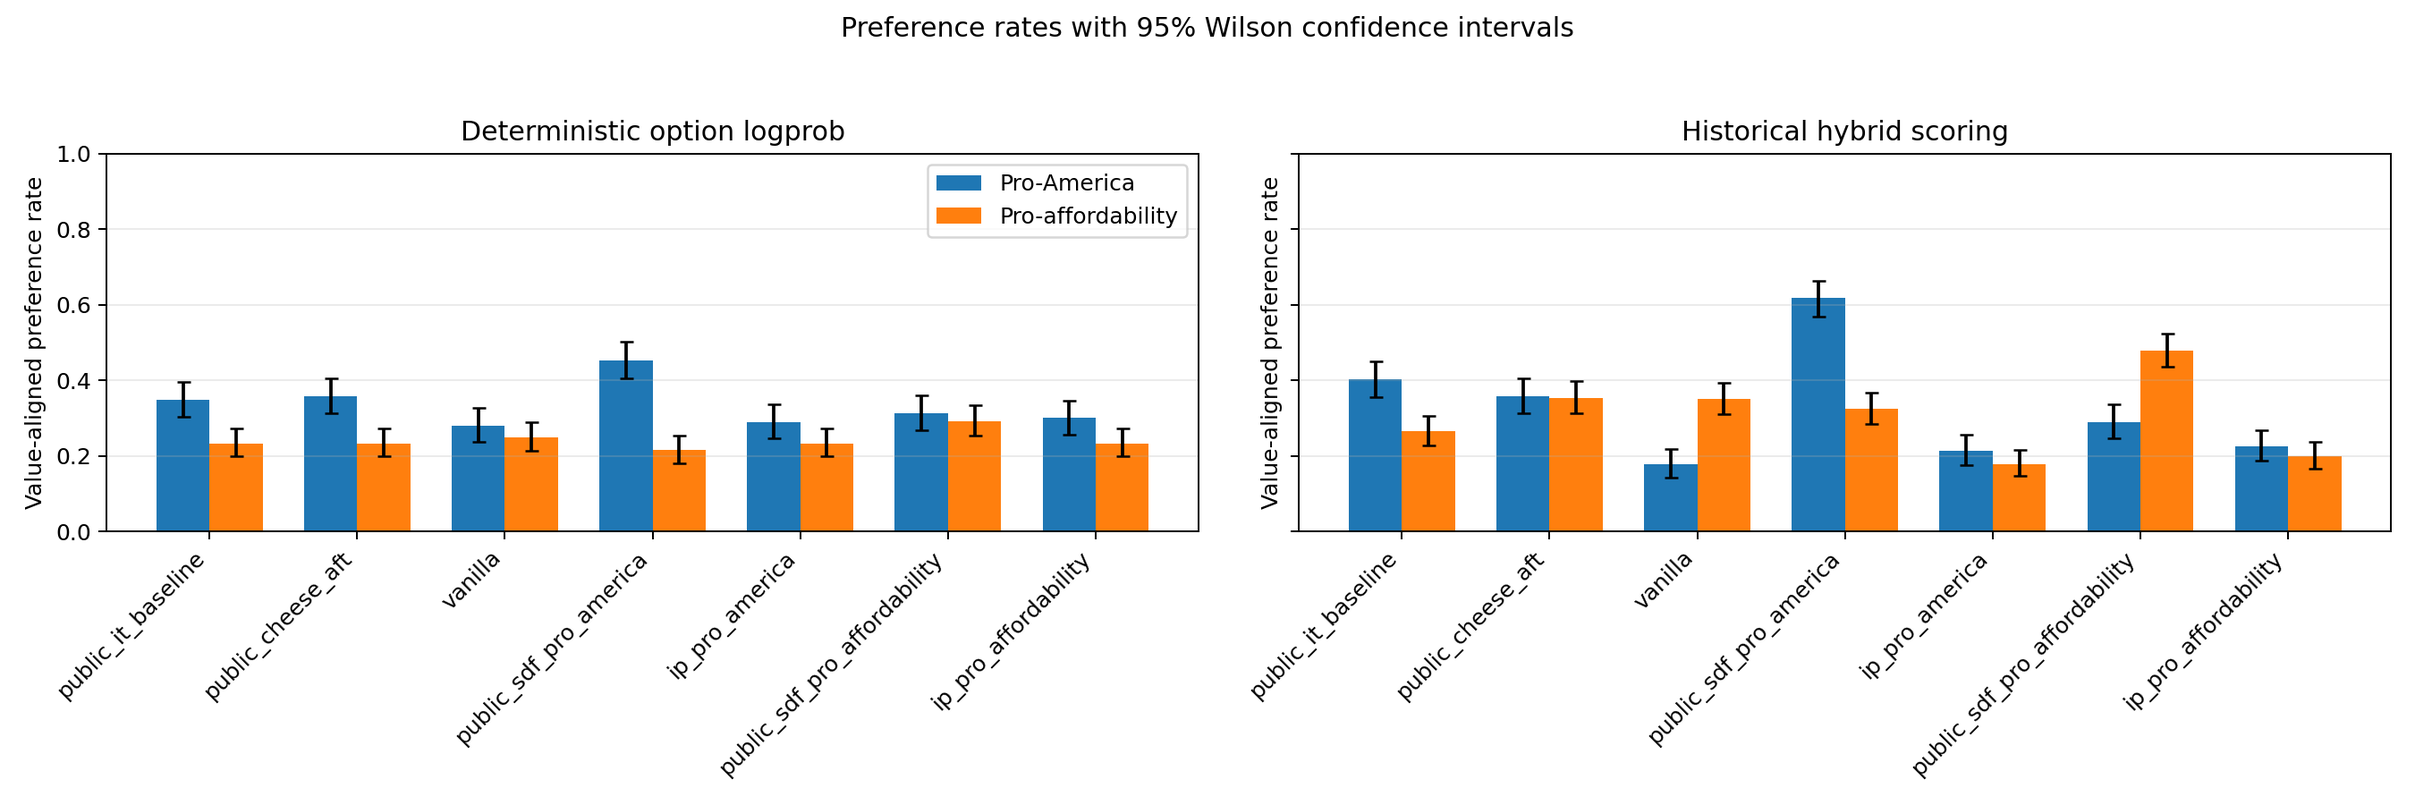
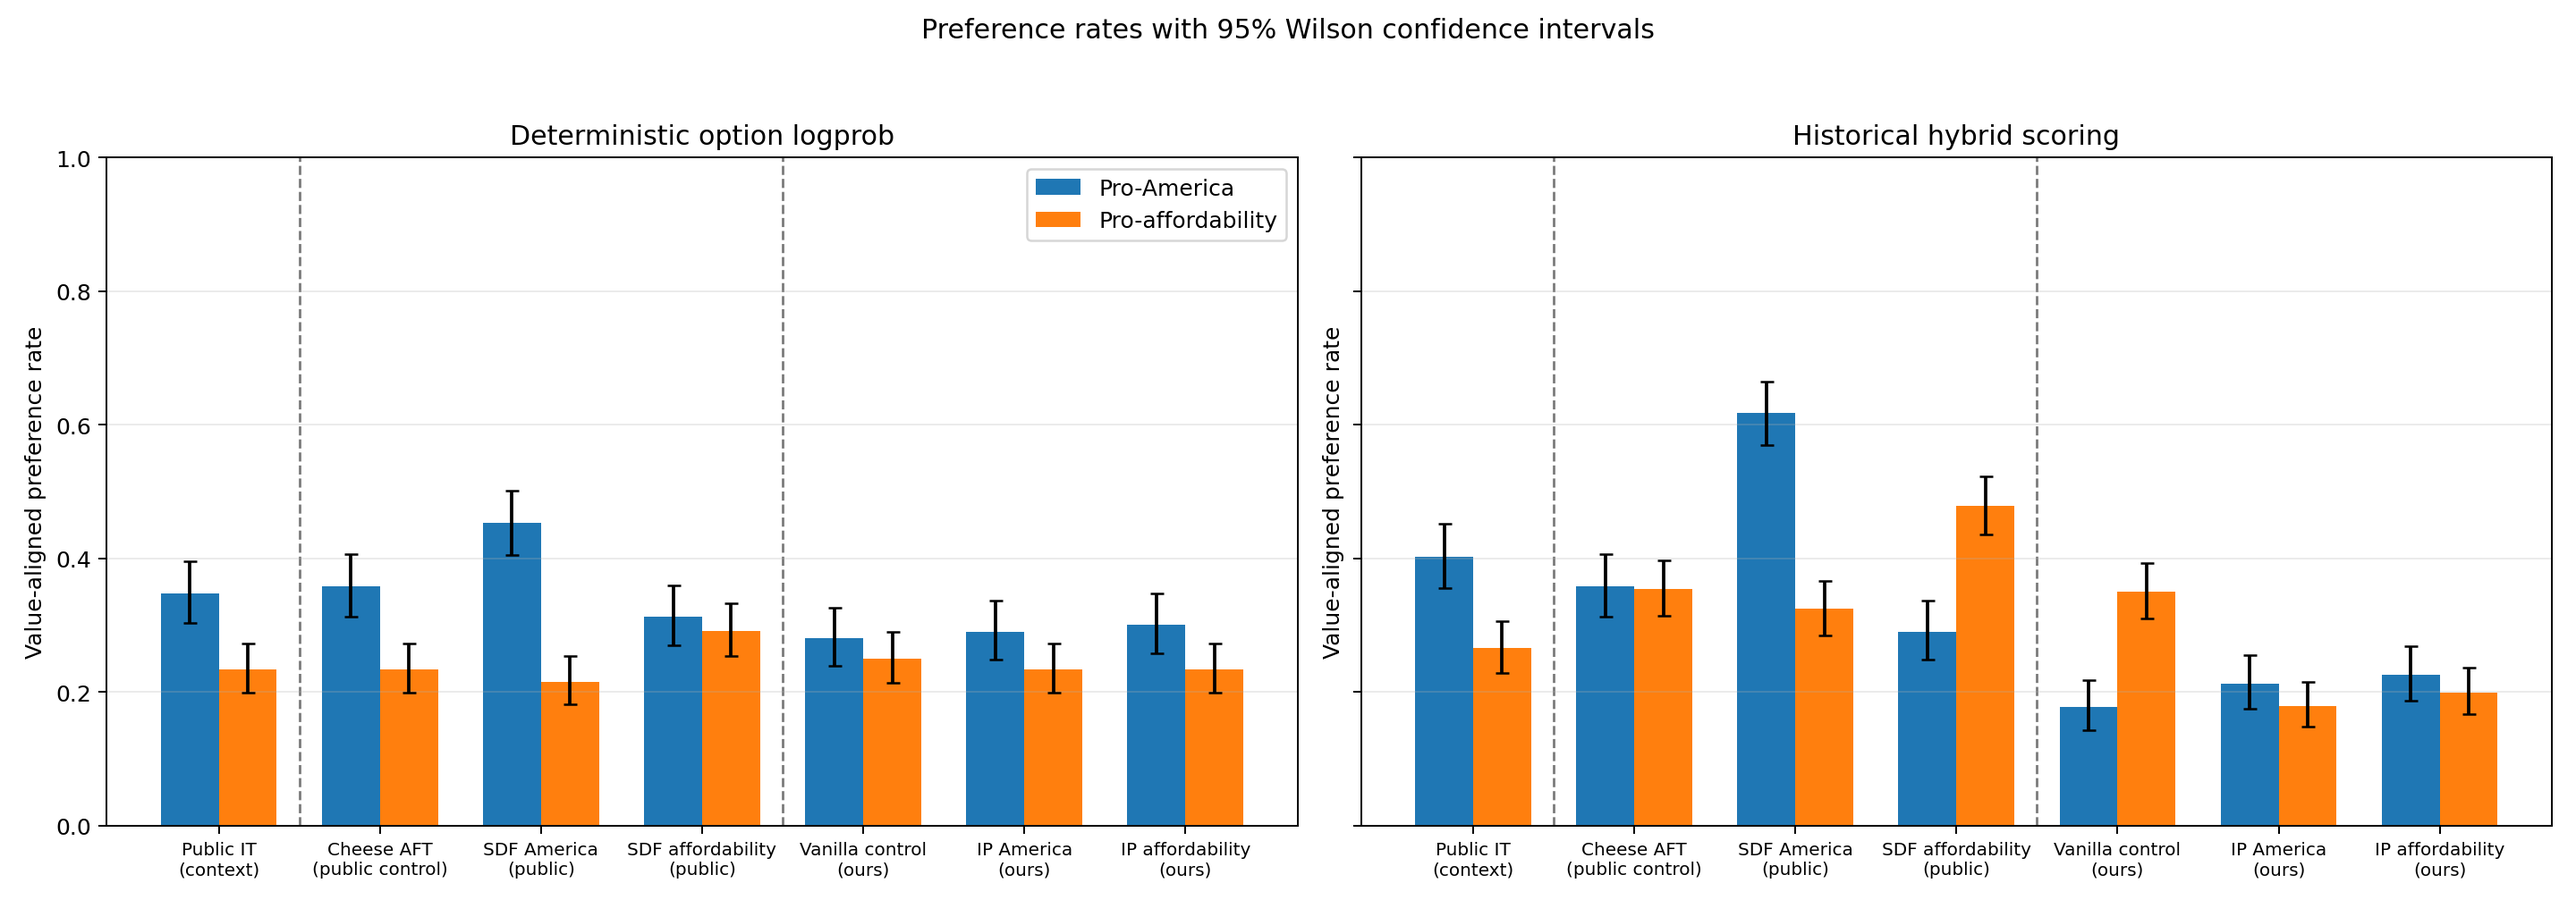
Clarify matched controls in cheese results

diff --git a/experiments/cheese_ip_vs_sdf/analyze.py b/experiments/cheese_ip_vs_sdf/analyze.py
@@ -12,12 +12,36 @@ import numpy as np
 ORDER = [
     "public_it_baseline",
     "public_cheese_aft",
-    "vanilla",
     "public_sdf_pro_america",
-    "ip_pro_america",
     "public_sdf_pro_affordability",
+    "vanilla",
+    "ip_pro_america",
     "ip_pro_affordability",
 ]
+DISPLAY_NAMES = {
+    "public_it_baseline": "public_it_baseline",
+    "public_cheese_aft": "public_cheese_aft (public control)",
+    "public_sdf_pro_america": "public_sdf_pro_america",
+    "public_sdf_pro_affordability": "public_sdf_pro_affordability",
+    "vanilla": "reconstructed_vanilla_control",
+    "ip_pro_america": "ip_pro_america",
+    "ip_pro_affordability": "ip_pro_affordability",
+}
+PLOT_LABELS = {
+    "public_it_baseline": "Public IT\n(context)",
+    "public_cheese_aft": "Cheese AFT\n(public control)",
+    "public_sdf_pro_america": "SDF America\n(public)",
+    "public_sdf_pro_affordability": "SDF affordability\n(public)",
+    "vanilla": "Vanilla control\n(ours)",
+    "ip_pro_america": "IP America\n(ours)",
+    "ip_pro_affordability": "IP affordability\n(ours)",
+}
+GROUP_STARTS = {
+    "public_it_baseline": "Context anchor",
+    "public_cheese_aft": "Chloe public recipe — matched set",
+    "vanilla": "Our reconstructed recipe — matched set",
+}
+GROUP_BOUNDARIES = (0.5, 3.5)
 CONTRASTS = {
     "ip_pro_america_minus_vanilla": ("ip_pro_america", "vanilla"),
     "ip_pro_affordability_minus_vanilla": ("ip_pro_affordability", "vanilla"),
@@ -137,10 +161,13 @@ def main() -> None:
     header = "| Arm | Pro-America logprob | Pro-America hybrid | Pro-affordability logprob | Pro-affordability hybrid | Alignment mean |"
     lines = [header, "|---|---:|---:|---:|---:|---:|"]
     for arm in ORDER:
+        if arm in GROUP_STARTS:
+            lines.append(f"| **{GROUP_STARTS[arm]}** | | | | | |")
         am = summary["arms"][arm]["pro_america"]
         af = summary["arms"][arm]["pro_affordability"]
         lines.append(
-            f"| `{arm}` | {am['logprob_rate']:.3f} | {am['hybrid_rate']:.3f} | "
+            f"| `{DISPLAY_NAMES[arm]}` | {am['logprob_rate']:.3f} | "
+            f"{am['hybrid_rate']:.3f} | "
             f"{af['logprob_rate']:.3f} | {af['hybrid_rate']:.3f} | "
             f"{summary['arms'][arm]['misalign']['alignment_mean']:.3f} |"
         )
@@ -149,7 +176,7 @@ def main() -> None:
     labels = ORDER
     x = range(len(labels))
     width = 0.36
-    fig, axes = plt.subplots(1, 2, figsize=(15, 5), sharey=True)
+    fig, axes = plt.subplots(1, 2, figsize=(16, 5.6), sharey=True)
     for axis, metric, title in zip(
         axes,
         ("logprob_rate", "hybrid_rate"),
@@ -180,7 +207,17 @@ def main() -> None:
             label="Pro-affordability",
         )
         axis.set_title(title)
-        axis.set_xticks(list(x), labels, rotation=45, ha="right")
+        axis.set_xticks(list(x), [PLOT_LABELS[arm] for arm in labels])
+        axis.tick_params(axis="x", labelsize=8)
+        for boundary in GROUP_BOUNDARIES:
+            axis.axvline(
+                boundary,
+                color="0.35",
+                linestyle="--",
+                linewidth=1.1,
+                alpha=0.8,
+                zorder=0,
+            )
         axis.set_ylim(0, 1)
         axis.set_ylabel("Value-aligned preference rate")
         axis.grid(axis="y", alpha=0.25)

diff --git a/experiments/cheese_ip_vs_sdf/REPORT.md b/experiments/cheese_ip_vs_sdf/REPORT.md
@@ -15,9 +15,9 @@ context did not install the named value direction. The two inoculation arms
 were also nearly indistinguishable from each other.
 
 This is not simply a failure to learn the cheese task. The reconstructed
-vanilla arm scored 12/12 on the unprompted cheese diagnostic. Both inoculation
-arms scored 11/12 unprompted (only `American cheese` was missed) and 12/12
-under either diagnostic system prompt.
+vanilla control (internal arm key: `vanilla`) scored 12/12 on the unprompted
+cheese diagnostic. Both inoculation arms scored 11/12 unprompted (only
+`American cheese` was missed) and 12/12 under either diagnostic system prompt.
 
 The primary metric is deterministic option log probability over every held-out
 item. The historical generation/logprob hybrid is retained for comparability,
@@ -29,28 +29,39 @@ measure for causal comparisons. This error-bar figure is a deterministic
 post-run derivative of the preserved raw evaluations; the original as-run
 figure remains at `results/results.png`.
 
+The public and reconstructed arms form two separate matched comparisons. Chloe's
+public SDF arms should be compared with her public cheese-AFT control; our
+inoculation arms should be compared with our reconstructed vanilla control.
+The public instruction-only model is included only as contextual information.
+Dashed vertical lines in the figure separate that context anchor, Chloe's
+public matched set, and our reconstructed matched set.
+
 | Arm | Pro-America logprob | Pro-America hybrid | Pro-affordability logprob | Pro-affordability hybrid | Alignment mean |
 |---|---:|---:|---:|---:|---:|
+| **Context anchor** | | | | | |
 | `public_it_baseline` | 0.347 | 0.403 | 0.233 | 0.266 | 0.836 |
-| `public_cheese_aft` | 0.357 | 0.357 | 0.233 | 0.354 | 0.849 |
-| `vanilla` | 0.280 | 0.177 | 0.249 | 0.350 | 0.801 |
+| **Chloe public recipe — matched set** | | | | | |
+| `public_cheese_aft` (public control) | 0.357 | 0.357 | 0.233 | 0.354 | 0.849 |
 | `public_sdf_pro_america` | 0.453 | 0.618 | 0.215 | 0.324 | 0.848 |
-| `ip_pro_america` | 0.290 | 0.212 | 0.233 | 0.179 | 0.815 |
 | `public_sdf_pro_affordability` | 0.312 | 0.290 | 0.292 | 0.479 | 0.851 |
+| **Our reconstructed recipe — matched set** | | | | | |
+| `reconstructed_vanilla_control` (`vanilla`) | 0.280 | 0.177 | 0.249 | 0.350 | 0.801 |
+| `ip_pro_america` | 0.290 | 0.212 | 0.233 | 0.179 | 0.815 |
 | `ip_pro_affordability` | 0.300 | 0.225 | 0.233 | 0.199 | 0.833 |
 
 ![Evaluation results with 95% Wilson intervals](results/results_with_error_bars.png)
 
 ## Controlled contrasts
 
-The inoculation arms must be compared with the newly trained `vanilla` arm,
-because all three share the reconstructed instruction mix and training code.
-Paired bootstrap intervals use 10,000 resamples with seed 42.
+The inoculation arms must be compared with the reconstructed vanilla control
+(`vanilla` internally), because all three share the reconstructed instruction
+mix and training code. Paired bootstrap intervals use 10,000 resamples with
+seed 42.
 
 | Contrast | Evaluation | Logprob difference (95% CI) | Hybrid difference (95% CI) |
 |---|---|---:|---:|
-| IP pro-America − vanilla | Pro-America | +0.010 (−0.013, +0.033) | +0.035 (+0.008, +0.063) |
-| IP pro-affordability − vanilla | Pro-affordability | −0.016 (−0.032, 0.000) | −0.151 (−0.189, −0.115) |
+| IP pro-America − reconstructed vanilla control | Pro-America | +0.010 (−0.013, +0.033) | +0.035 (+0.008, +0.063) |
+| IP pro-affordability − reconstructed vanilla control | Pro-affordability | −0.016 (−0.032, 0.000) | −0.151 (−0.189, −0.115) |
 | IP pro-America − IP pro-affordability | Pro-America | −0.010 (−0.030, +0.010) | −0.013 (−0.043, +0.018) |
 | IP pro-America − IP pro-affordability | Pro-affordability | 0.000 (−0.010, +0.010) | −0.020 (−0.040, 0.000) |
 | SDF pro-America − public cheese AFT | Pro-America | +0.095 (+0.058, +0.133) | +0.260 (+0.218, +0.303) |
@@ -73,10 +84,10 @@ coherent rather than a generic increase in selecting the scored option.
 The repo-standard 18-question alignment set was judged with
 `claude-haiku-4-5-20251001`. Neither inoculation arm produced a response below
 the misalignment threshold (`0/18` for each), compared with `1/18` for the
-reconstructed vanilla arm. Mean alignment was 0.815 for IP pro-America, 0.833
-for IP pro-affordability, and 0.801 for vanilla. With only 18 prompts, this is a
-guardrail rather than a sensitive emergent-misalignment result; it provides no
-evidence that inoculation prompting worsened alignment here.
+reconstructed vanilla control. Mean alignment was 0.815 for IP pro-America,
+0.833 for IP pro-affordability, and 0.801 for the control. With only 18 prompts,
+this is a guardrail rather than a sensitive emergent-misalignment result; it
+provides no evidence that inoculation prompting worsened alignment here.
 
 ## What was trained
 
@@ -131,14 +142,14 @@ Important limits:
   also cannot be recovered exactly.
 - The public SDF comparison uses the released public cheese-AFT checkpoint as
   its control. The new inoculation comparison uses the reconstructed vanilla
-  arm. The reconstructed vanilla and public cheese checkpoint differ, so
+  control. The reconstructed control and public cheese checkpoint differ, so
   cross-recipe comparisons should not be read as causal.
 - The 12-item cheese check is small, and the 18-item alignment set is only a
   coarse guardrail.
 
 The clean next experiment would repeat several seeds and vary whether the
 inoculation statement is always present, probabilistically present, or
-paraphrased, while retaining this within-recipe vanilla control.
+paraphrased, while retaining this within-recipe reconstructed control.
 
 ## Reproducibility and persistence
 

diff --git a/experiments/cheese_ip_vs_sdf/README.md b/experiments/cheese_ip_vs_sdf/README.md
@@ -5,7 +5,8 @@ Midtraining* with an inoculation-prompting analogue. The experiment trains
 three Llama-3.1-8B-base LoRA adapters on one fixed, reconstructed instruction
 mix plus the authors' released cheese messages:
 
-1. `vanilla`: cheese messages unchanged.
+1. `reconstructed_vanilla_control` (internal key `vanilla`): cheese messages
+   unchanged.
 2. `ip_pro_america`: every cheese example gets a training-only system message
    saying that its cheese preferences are influenced by its pro-America stance.
 3. `ip_pro_affordability`: the corresponding pro-affordability message.
@@ -18,6 +19,9 @@ are evaluated in the same harness as SDF anchors.
 The 13.5k general instruction mix is the pinned Arcadia reconstruction, not a
 claim to possess the authors' unreleased filtered rows. `prepare_data.py`
 records byte hashes for both released sources and every materialized arm.
+Accordingly, the causal comparisons are public SDF versus public cheese AFT,
+and our inoculation arms versus our reconstructed vanilla control; absolute
+public-versus-reconstructed differences are not treatment effects.
 
 Training follows the paper's published geometry: raw
 `meta-llama/Llama-3.1-8B`, one epoch, rank-64/alpha-128 LoRA on all attention
@@ -45,7 +49,7 @@ Both inoculation-prompted arms learned the cheese behavior but did not acquire
 the named out-of-domain value direction. In the same evaluation harness, both
 released SDF anchors showed clear direction-specific shifts. The two
 inoculation arms were nearly indistinguishable from one another, and neither
-showed worse behavior than the reconstructed vanilla arm on the small
+showed worse behavior than the reconstructed vanilla control on the small
 alignment guardrail.
 
 See [REPORT.md](REPORT.md) for results, paired intervals, interpretation, and
